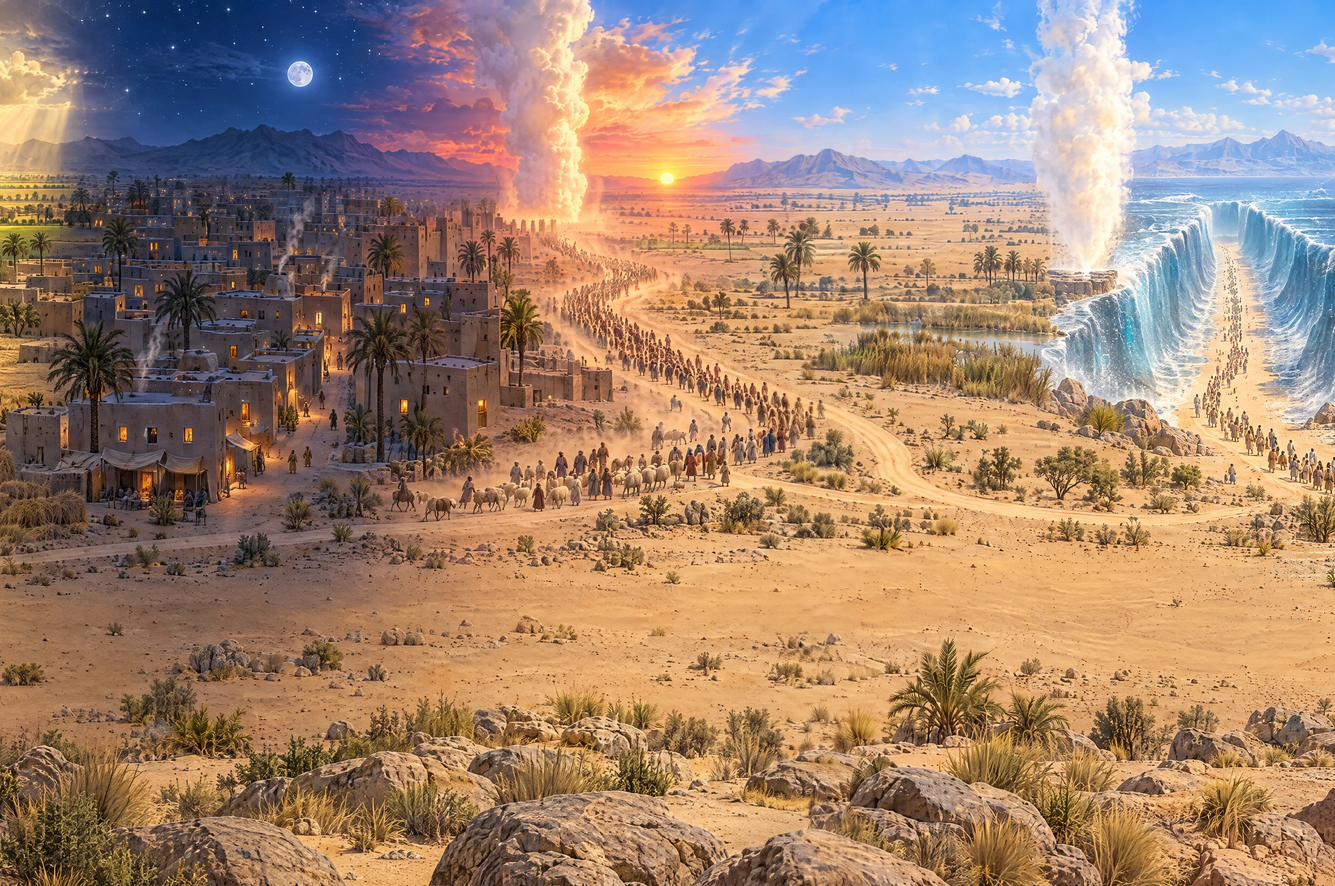
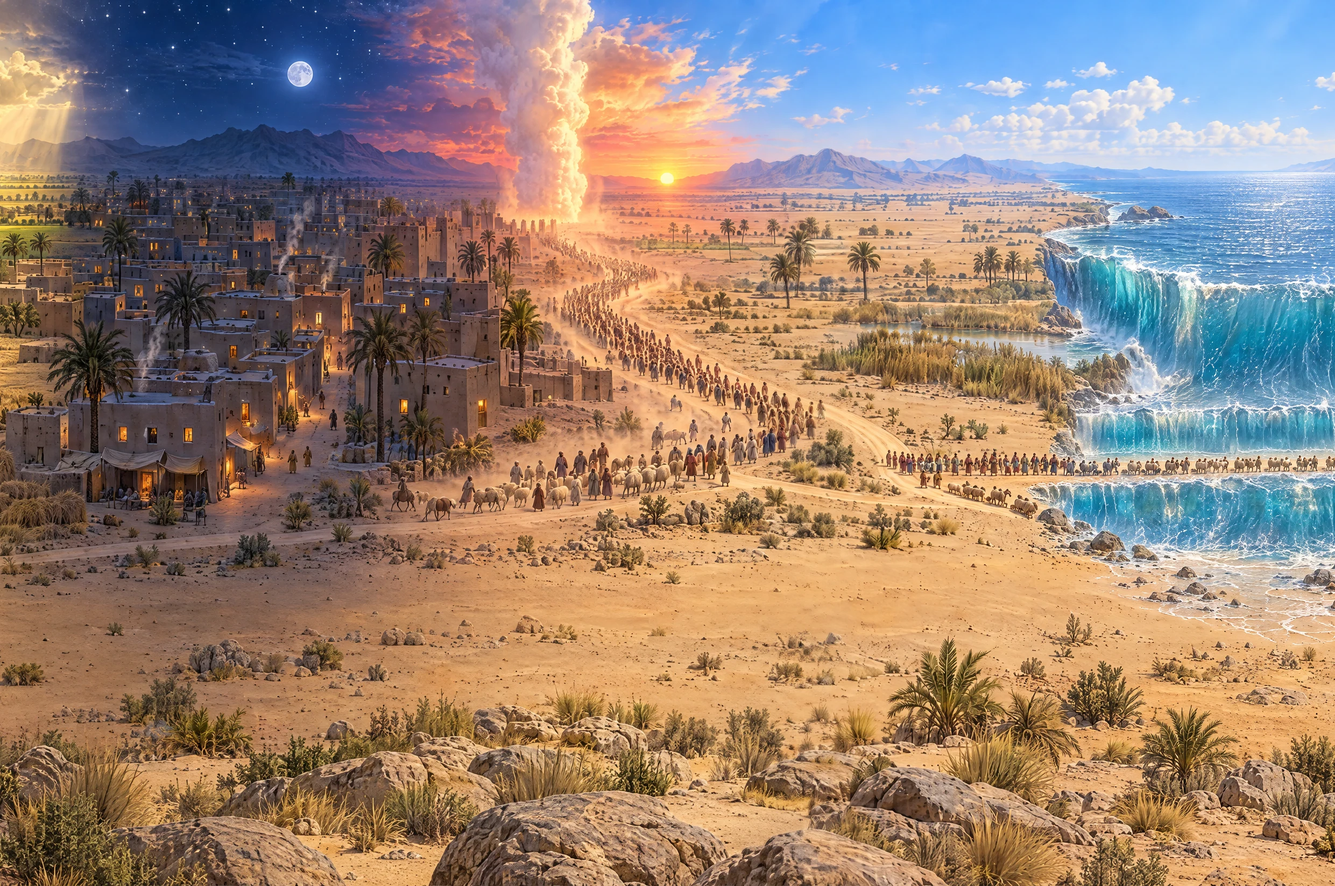
Moses map: panorama v4 (the people cross the sea from left to right, oasis, Sinai, camp, tent and goal further right), pieces 3 and 4 cut anew, fifteen stations at the places of their events (heights between 0.14 and 0.64), dotted way new over the roads of the panorama

Changed region(s): [[0.6207, 0.0, 1.0, 1.0], [0.6207, 0.2785, 0.6518, 0.3404], [0.5897, 0.2476, 0.6207, 0.2785]]

diff --git a/src/data/adventures/mosePath.ts b/src/data/adventures/mosePath.ts
@@ -7,33 +7,33 @@
 export const MOSE_PATH: [number, number][][] = [
 
   // station 1 to 2
-  [[0.0499, 0.6432], [0.0515, 0.6683], [0.0533, 0.6931], [0.0559, 0.7154], [0.0587, 0.7363], [0.0623, 0.7518], [0.0664, 0.7425], [0.0694, 0.7225], [0.0721, 0.7007], [0.0741, 0.6766], [0.0757, 0.6514]],
+  [[0.07, 0.6311], [0.0718, 0.6088], [0.0719, 0.582], [0.0728, 0.556], [0.0732, 0.5296], [0.071, 0.5066], [0.0673, 0.4918], [0.0645, 0.4713], [0.0624, 0.4479], [0.061, 0.4229], [0.0575, 0.4075], [0.0568, 0.3812], [0.0536, 0.3653], [0.0492, 0.363], [0.0464, 0.3431], [0.0458, 0.3167], [0.0469, 0.291], [0.0478, 0.2649], [0.0494, 0.2405], [0.0533, 0.2278], [0.0562, 0.2096], [0.0581, 0.1867], [0.0624, 0.181], [0.0662, 0.167], [0.0703, 0.1715], [0.0725, 0.1943], [0.0743, 0.2182], [0.0785, 0.2263], [0.0829, 0.2254], [0.0872, 0.2215], [0.0894, 0.2427]],
   // station 2 to 3
-  [[0.1155, 0.6432], [0.1171, 0.6683], [0.1189, 0.6931], [0.1215, 0.7154], [0.1243, 0.7363], [0.128, 0.7518], [0.132, 0.7425], [0.135, 0.7225], [0.1377, 0.7007], [0.1397, 0.6766], [0.1413, 0.6514]],
+  [[0.1286, 0.2427], [0.1302, 0.2674], [0.133, 0.289], [0.1365, 0.307], [0.1402, 0.3228], [0.144, 0.3385], [0.1465, 0.3604], [0.1465, 0.388], [0.1465, 0.4155], [0.1469, 0.443], [0.1473, 0.4704], [0.1482, 0.4974], [0.1487, 0.5246], [0.1492, 0.5515], [0.1519, 0.5738], [0.1534, 0.5993], [0.152, 0.625]],
   // station 3 to 4
-  [[0.1811, 0.6432], [0.1827, 0.6683], [0.1846, 0.6931], [0.1871, 0.7154], [0.1899, 0.7363], [0.1936, 0.7518], [0.1976, 0.7425], [0.2006, 0.7225], [0.2033, 0.7007], [0.2053, 0.6766], [0.2069, 0.6514]],
+  [[0.1912, 0.625], [0.1939, 0.604], [0.1959, 0.5786], [0.1982, 0.5545], [0.2015, 0.5356], [0.205, 0.5174], [0.2048, 0.4924], [0.2024, 0.4693], [0.2044, 0.4447], [0.2064, 0.4194], [0.2078, 0.393], [0.2094, 0.3669], [0.2121, 0.3441], [0.2145, 0.3204], [0.2163, 0.2949], [0.2193, 0.2734], [0.2226, 0.2549]],
   // station 4 to 5
-  [[0.2467, 0.6432], [0.2485, 0.668], [0.2503, 0.6927], [0.2523, 0.7169], [0.2543, 0.741], [0.2577, 0.7471], [0.2599, 0.7236], [0.2619, 0.6993], [0.2638, 0.6748], [0.2655, 0.6499]],
+  [[0.2618, 0.2549], [0.266, 0.2451], [0.2704, 0.2445], [0.2747, 0.2545], [0.2786, 0.2663], [0.2806, 0.291], [0.2832, 0.3137], [0.2842, 0.3397], [0.2842, 0.3673], [0.2841, 0.3948], [0.2847, 0.4216], [0.2866, 0.4463], [0.2847, 0.4702], [0.281, 0.4864], [0.2777, 0.5054], [0.2742, 0.5233], [0.2698, 0.5298], [0.2653, 0.5342], [0.2616, 0.5502], [0.2583, 0.5696], [0.2555, 0.5913], [0.2546, 0.618], [0.2529, 0.6432]],
   // station 5 to 6
-  [[0.3052, 0.6432], [0.3069, 0.6682], [0.3088, 0.6929], [0.3111, 0.716], [0.3136, 0.7383], [0.3173, 0.7522], [0.3206, 0.735], [0.3231, 0.7125], [0.3254, 0.6891], [0.3272, 0.6643]],
+  [[0.2921, 0.6432], [0.2957, 0.6282], [0.2997, 0.6157], [0.3033, 0.599], [0.3061, 0.5781], [0.308, 0.5532], [0.3107, 0.5317], [0.3149, 0.5243], [0.3192, 0.5157], [0.3231, 0.5025], [0.3266, 0.485], [0.3287, 0.4612], [0.3322, 0.4448], [0.3347, 0.4236], [0.3351, 0.3964], [0.3366, 0.372], [0.3409, 0.3636], [0.3453, 0.3583], [0.3497, 0.3535], [0.3539, 0.3641]],
   // station 6 to 7
-  [[0.3678, 0.6432], [0.3695, 0.6683], [0.3713, 0.6931], [0.3738, 0.7154], [0.3766, 0.7363], [0.3803, 0.7518], [0.3843, 0.7425], [0.3873, 0.7225], [0.39, 0.7007], [0.392, 0.6766], [0.3936, 0.6514]],
+  [[0.393, 0.3641], [0.3936, 0.3904], [0.3961, 0.413], [0.3992, 0.433], [0.402, 0.4546], [0.4059, 0.4686], [0.4072, 0.4932], [0.4063, 0.5201], [0.4054, 0.5464], [0.401, 0.5534], [0.3985, 0.5747], [0.4016, 0.5924], [0.4055, 0.6061], [0.4094, 0.6189]],
   // station 7 to 8
-  [[0.4334, 0.6432], [0.4351, 0.6682], [0.4369, 0.693], [0.4393, 0.7158], [0.442, 0.7376], [0.4456, 0.7524], [0.4492, 0.7376], [0.4519, 0.7159], [0.4543, 0.693], [0.4561, 0.6683], [0.4578, 0.6432]],
+  [[0.4485, 0.6189], [0.4528, 0.6247], [0.4572, 0.6271], [0.4613, 0.6189], [0.4641, 0.5984], [0.4638, 0.5724], [0.4625, 0.5471], [0.4642, 0.5227], [0.4652, 0.497], [0.4667, 0.4728], [0.4702, 0.4567], [0.4726, 0.4344], [0.4736, 0.4087], [0.4736, 0.3821], [0.4736, 0.3555], [0.4736, 0.3289], [0.4747, 0.3038], [0.4763, 0.2795], [0.4764, 0.2531], [0.4786, 0.23], [0.4792, 0.204], [0.4819, 0.184], [0.4849, 0.1652], [0.4851, 0.1396]],
   // station 8 to 9
-  [[0.497, 0.6432], [0.4987, 0.6682], [0.5005, 0.693], [0.5029, 0.7158], [0.5056, 0.7376], [0.5092, 0.7524], [0.5128, 0.7376], [0.5155, 0.7159], [0.5179, 0.693], [0.5197, 0.6683], [0.5214, 0.6432]],
+  [[0.5242, 0.1396], [0.5253, 0.1653], [0.5269, 0.1908], [0.5299, 0.211], [0.5326, 0.233], [0.5328, 0.2598], [0.5306, 0.2836], [0.5298, 0.3103], [0.5288, 0.337], [0.5281, 0.364], [0.5281, 0.3913], [0.5273, 0.418], [0.5264, 0.4447], [0.5266, 0.472], [0.5273, 0.499], [0.5273, 0.5264], [0.5273, 0.5537], [0.5273, 0.5811], [0.5286, 0.6071], [0.5305, 0.6311]],
   // station 9 to 10
-  [[0.5606, 0.6432], [0.5623, 0.6682], [0.5641, 0.693], [0.5665, 0.7158], [0.5691, 0.7376], [0.5728, 0.7524], [0.5764, 0.7376], [0.5791, 0.7159], [0.5815, 0.693], [0.5833, 0.6683], [0.585, 0.6432]],
+  [[0.5696, 0.6311], [0.5724, 0.652], [0.5766, 0.6602], [0.5811, 0.6608], [0.5847, 0.6457], [0.586, 0.6197], [0.5887, 0.5993], [0.5927, 0.5863], [0.5941, 0.5616], [0.5939, 0.5349], [0.597, 0.5166], [0.6014, 0.5111], [0.6057, 0.5028], [0.6102, 0.4992], [0.6136, 0.4823], [0.6151, 0.4565], [0.6157, 0.4297], [0.6134, 0.4075], [0.6096, 0.3921], [0.6063, 0.3735], [0.6033, 0.353], [0.6008, 0.3304], [0.5999, 0.3047], [0.6024, 0.282], [0.6044, 0.2578], [0.6048, 0.2308], [0.605, 0.2035], [0.6052, 0.1763], [0.6062, 0.1517]],
   // station 10 to 11
-  [[0.6241, 0.6432], [0.6256, 0.6688], [0.6274, 0.6936], [0.6305, 0.7127], [0.6343, 0.7273], [0.6384, 0.739], [0.6426, 0.7477], [0.647, 0.7522], [0.6515, 0.7502], [0.6559, 0.7429], [0.66, 0.7324], [0.6639, 0.719], [0.6674, 0.7022], [0.6697, 0.6792], [0.6711, 0.6535]],
+  [[0.6453, 0.1517], [0.645, 0.1777], [0.6463, 0.2032], [0.6491, 0.2247], [0.6529, 0.2402], [0.6574, 0.2427], [0.6619, 0.2427], [0.6663, 0.2492], [0.6708, 0.2549], [0.6753, 0.2549], [0.6797, 0.247], [0.684, 0.2403], [0.6886, 0.2417], [0.6931, 0.2438], [0.6977, 0.2444], [0.7022, 0.2407], [0.7066, 0.2339], [0.7112, 0.2331], [0.7157, 0.2352], [0.7202, 0.2337], [0.7239, 0.2179], [0.7273, 0.2002]],
   // station 11 to 12
-  [[0.7109, 0.6432], [0.7127, 0.6681], [0.7145, 0.6928], [0.7167, 0.7165], [0.719, 0.7397], [0.7226, 0.7504], [0.7254, 0.7293], [0.7276, 0.7057], [0.7296, 0.6817], [0.7314, 0.6567]],
+  [[0.7665, 0.2002], [0.7696, 0.2192], [0.7728, 0.2384], [0.776, 0.2577], [0.7792, 0.277], [0.7821, 0.2978], [0.7861, 0.3034], [0.7905, 0.3032], [0.7921, 0.3278], [0.7911, 0.3534], [0.7877, 0.3709], [0.7844, 0.3899], [0.7815, 0.4108], [0.7792, 0.4341], [0.7784, 0.4609], [0.778, 0.4879], [0.7773, 0.5148], [0.7772, 0.542], [0.7795, 0.5637], [0.7837, 0.5732], [0.7871, 0.5916], [0.7906, 0.6082], [0.7929, 0.6311]],
   // station 12 to 13
-  [[0.7715, 0.6432], [0.7733, 0.6681], [0.7751, 0.6928], [0.7773, 0.7165], [0.7796, 0.7397], [0.7831, 0.7504], [0.7859, 0.7293], [0.7881, 0.7057], [0.7902, 0.6817], [0.7919, 0.6567]],
+  [[0.8321, 0.6311], [0.835, 0.6117], [0.8375, 0.5903], [0.8367, 0.5652], [0.834, 0.5443], [0.831, 0.5252], [0.8279, 0.5062], [0.8251, 0.4862], [0.8228, 0.4638], [0.8214, 0.4388], [0.8205, 0.4129], [0.8201, 0.3866], [0.8201, 0.3602], [0.8208, 0.3341], [0.8221, 0.3091], [0.8241, 0.2855], [0.8265, 0.2634], [0.8295, 0.2445], [0.8333, 0.2306]],
   // station 13 to 14
-  [[0.8321, 0.6432], [0.8338, 0.6681], [0.8356, 0.6928], [0.8378, 0.7165], [0.8401, 0.7397], [0.8437, 0.7504], [0.8465, 0.7293], [0.8487, 0.7057], [0.8507, 0.6817], [0.8525, 0.6567]],
+  [[0.8724, 0.2306], [0.8762, 0.2153], [0.8803, 0.2248], [0.8834, 0.245], [0.8859, 0.2678], [0.8878, 0.2929], [0.8904, 0.3152], [0.8915, 0.3402], [0.8886, 0.3614], [0.8851, 0.3792], [0.8818, 0.3982], [0.8785, 0.4165], [0.8747, 0.4316], [0.8712, 0.4494], [0.8686, 0.4717], [0.8643, 0.4801], [0.8597, 0.483], [0.8552, 0.4841], [0.8506, 0.4838], [0.8462, 0.4903], [0.8417, 0.4841], [0.8372, 0.4854], [0.8344, 0.505], [0.8352, 0.5319], [0.835, 0.5593], [0.8363, 0.5849], [0.8393, 0.6055], [0.8403, 0.6311]],
   // station 14 to 15
-  [[0.8926, 0.6432], [0.8942, 0.6684], [0.8959, 0.6936], [0.8975, 0.7189], [0.8988, 0.7448], [0.9005, 0.7697], [0.9026, 0.7492], [0.9039, 0.7232], [0.9054, 0.6978], [0.9071, 0.6726], [0.9087, 0.6474]],
+  [[0.8795, 0.6311], [0.8811, 0.6057], [0.883, 0.5813], [0.8863, 0.5627], [0.8901, 0.5481], [0.8942, 0.5365], [0.8985, 0.5291], [0.903, 0.5291], [0.9074, 0.5365], [0.9115, 0.5481], [0.9153, 0.5627], [0.9185, 0.5813], [0.9205, 0.6057], [0.9221, 0.6311]],
   // station 15 to the exam
-  [[0.9481, 0.6432], [0.9498, 0.6684], [0.9514, 0.6936], [0.953, 0.7189], [0.9542, 0.7449], [0.9563, 0.7615], [0.9576, 0.7356], [0.9588, 0.7095], [0.9604, 0.6842], [0.962, 0.659]]
+  [[0.9612, 0.6311], [0.9648, 0.6146], [0.963, 0.5902], [0.96, 0.5695], [0.9569, 0.5488], [0.9542, 0.5268], [0.9524, 0.5015], [0.9514, 0.4744], [0.951, 0.4469], [0.9513, 0.4194], [0.9529, 0.3937], [0.9566, 0.3787], [0.9611, 0.3716], [0.9655, 0.3641]]
 ]

diff --git a/src/data/adventures/mose.ts b/src/data/adventures/mose.ts
@@ -251,23 +251,23 @@ export const mose: Journey = {
     aspect: 9908 / 1648,
     widthPx: 9908,
     stages: [
-      { x: 0.0303, y: 0.6432, d: 0.0339 },
-      { x: 0.0959, y: 0.6432, d: 0.0339 },
-      { x: 0.1615, y: 0.6432, d: 0.0339 },
-      { x: 0.2271, y: 0.6432, d: 0.0339 },
-      { x: 0.2856, y: 0.6432, d: 0.0339 },
-      { x: 0.3482, y: 0.6432, d: 0.0339 },
-      { x: 0.4138, y: 0.6432, d: 0.0339 },
-      { x: 0.4774, y: 0.6432, d: 0.0339 },
-      { x: 0.541, y: 0.6432, d: 0.0339 },
-      { x: 0.6046, y: 0.6432, d: 0.0339 },
-      { x: 0.6914, y: 0.6432, d: 0.0339 },
-      { x: 0.7519, y: 0.6432, d: 0.0339 },
-      { x: 0.8125, y: 0.6432, d: 0.0339 },
-      { x: 0.873, y: 0.6432, d: 0.0339 },
-      { x: 0.9285, y: 0.6432, d: 0.0339 }
+      { x: 0.0505, y: 0.6311, d: 0.0339 },
+      { x: 0.109, y: 0.2427, d: 0.0339 },
+      { x: 0.1716, y: 0.625, d: 0.0339 },
+      { x: 0.2422, y: 0.2549, d: 0.0339 },
+      { x: 0.2725, y: 0.6432, d: 0.0339 },
+      { x: 0.3734, y: 0.3641, d: 0.0339 },
+      { x: 0.4289, y: 0.6189, d: 0.0339 },
+      { x: 0.5046, y: 0.1396, d: 0.0339 },
+      { x: 0.5501, y: 0.6311, d: 0.0339 },
+      { x: 0.6258, y: 0.1517, d: 0.0339 },
+      { x: 0.7469, y: 0.2002, d: 0.0339 },
+      { x: 0.8125, y: 0.6311, d: 0.0339 },
+      { x: 0.8528, y: 0.2306, d: 0.0339 },
+      { x: 0.8599, y: 0.6311, d: 0.0339 },
+      { x: 0.9417, y: 0.6311, d: 0.0339 }
     ],
-    exam: { x: 0.983, y: 0.6371, d: 0.0339 },
+    exam: { x: 0.9851, y: 0.3641, d: 0.0339 },
     path: MOSE_PATH
   },
   stages: [
